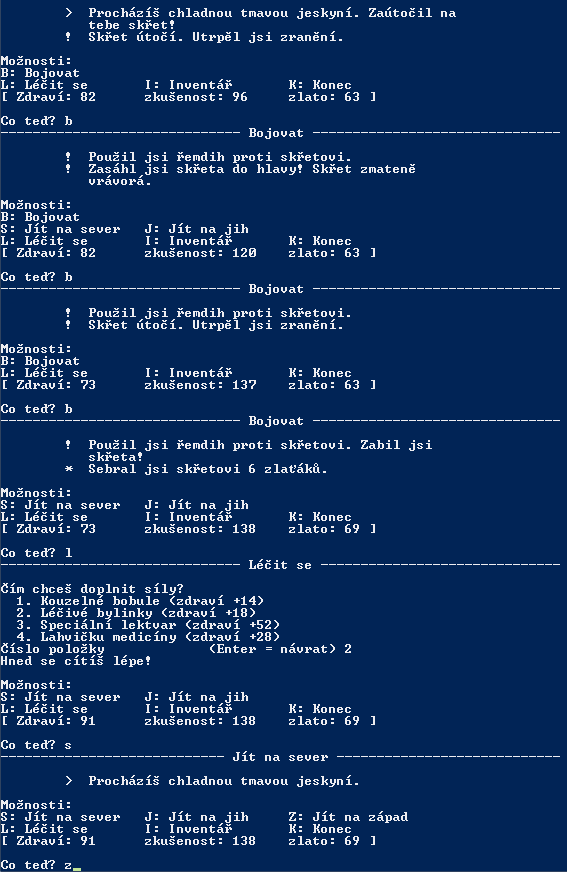
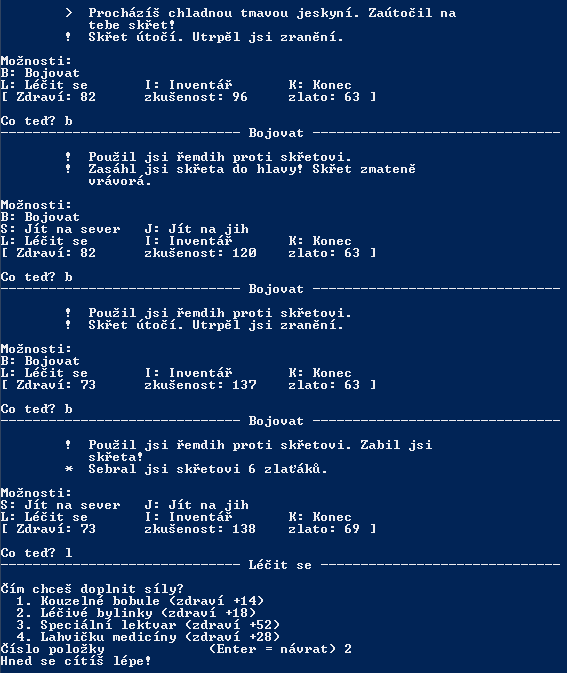
Update sample screenshots

diff --git a/README.rst b/README.rst
@@ -5,6 +5,10 @@ Strach ze tmy
 
 Hra je ve stádiu vývoje a je průběžně upravována a rozšiřována.
 
-.. image:: screenshot.png
+Ukázky:
+
+.. image:: screenshot_pycharm.png
 
 .. image:: screenshot_windows.png
+
+.. image:: screenshot_replit.png
